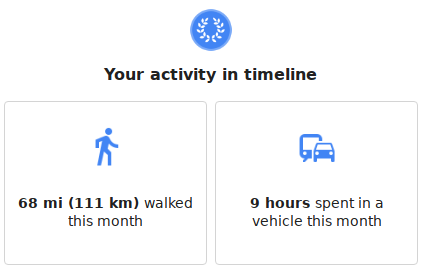
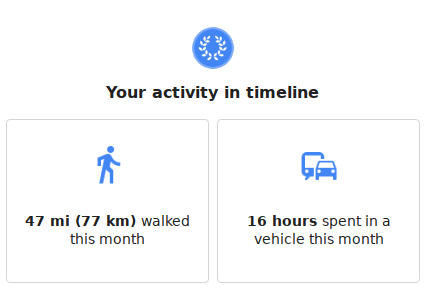
The post for July is done but it's still in Draft until monday

diff --git a/content/post/stats-jul-2017.md b/content/post/stats-jul-2017.md
@@ -2,6 +2,7 @@
 title = "Stats for Jul, 2017"
 date = "2017-08-05"
 tags = ["stats","personal","english"]
+draft = true
 +++
 
 Okay, here we go for the first full month working in my new job. :)
@@ -85,13 +86,31 @@ Editors are pretty much the same as last month's.
 + [Your ruby app end to end](https://pt.slideshare.net/CibeleFerreira8/tdc2017sp-trilha-ruby-sua-aplicacao-ruby-end-to-end) at [The Developers Conference](http://www.thedevelopersconference.com.br/tdc/2017/saopaulo/trilha-ruby)
 + **Deconstructing the web** as a Guest speaker at [ELO7 Tech-talks](http://carreira.elo7.com.br/engenharia/)
 
-And that was a huge step towards my goal:
+Six presentations in one month. Three of them were in the same day. This month
+is a personal record for me. 🎉
+
+It was also a huge step towards my goal:
 
 [![Burn down chart for my presentations](/images/stats/2017/jul/presentations.png "Burn down chart for my presentations")](/images/stats/2017/jul/presentations.png "")
 
 Hm... I kinda finished the yearly challenge in July. 😬
 
 Let's how far I can go! :D
+
+### Completed tasks
+
+I want to add the amount of tasks completed on my current task
+manager [Todoist](https://todoist.com)
+
+[![Amount of tasks completed this month](/images/stats/2017/jul/tasks-completed.png "Amount of tasks completed this month")](/images/stats/2017/jul/tasks-completed.png)
+
+**554 tasks** completed this month. :D
+
+I also included my streaks but I think I will have to improve my daily goals,
+they are too small for me.
+
+I have plans to create a better way to extract data from my Todoist account, but
+I will need some time to work on in.
 
 ### Podcasts
 
@@ -121,12 +140,14 @@ Here are the data from my time tracking software, [Toggl](https://toggl.com):
 [![Hours working using Toggl](/images/stats/2017/jul/toggl-time-working.png "Hours working using Toggl")](/images/stats/2017/jul/toggl-time-working.png "")
 
 The above chart is just for my freelance and full-time job. My full-time job is
-taking all my energy currently and there is not so much time spent as a
-freelancer this month.
+taking all my energy currently and there is not so much time spent working as a
+freelancer this month. The good part is that I'm working a lot less
+than [the previous months](/post/stats-may-2017/#working-hours) but I'm
+exhausted in the same way.
 
 There is another chart for my personal projects:
 
-[![Hours working on personal projects using Toggl](/images/stats/2017/jul/toggl-time-personal-projects.png "Hours working on personal projects using Toggl")](/images/stats/2017/jul/toggl-time-working.png "")
+[![Hours working on personal projects using Toggl](/images/stats/2017/jul/toggl-time-personal-projects.png "Hours working on personal projects using Toggl")](/images/stats/2017/jul/toggl-time-personal-projects.png "")
 
 It was really hard to work on personal projects this month. This 11 hours was my
 presentations. I did not consider the whole day speaking at TDC though. :)
@@ -148,13 +169,13 @@ I'm using my Mi band data to calculate my average steps:
 [![Activity data for this month by Mi-Fit app](/images/stats/2017/jul/activity.jpg "Activity data for this month by Mi-Fit app")](/images/stats/2017/jul/activity.jpg "")
 
 According to this data, I can conclude that I had a daily average of
-**10.6k** steps (318/30), a lot more than next month (it was **8.3k**) \o/.
+**8k** steps (249/31), it came back to my previous average.
 
 And these are my steps each day:
 
 [![Amount of steps for this month](/images/stats/2017/jul/physical-activity-steps.png "Amount of steps for this month")](/images/stats/2017/jul/physical-activity-steps.png "")
 
-My max distance was **11.7km**:
+My max distance was **8.3km**:
 
 [![Travelled distance this month](/images/stats/2017/jul/physical-activity-distance.png "Travelled distance this month")](/images/stats/2017/jul/physical-activity-distance.png "")
 
@@ -167,25 +188,28 @@ data for this month:
 
 [![Amount of sleep for this month](/images/stats/2017/jul/sleep.jpg "Amount of sleep for this month")](/images/stats/2017/jul/sleep.jpg "")
 
+A bit more average sleeping (**7h29m** for the last month) [and **a lot** more
+deep sleeping for this month \o/ (last month was **1h04**).
+
+I bought the Mi band 2, it may have some better monitoring. Let's see how it
+goes for the next month. :)
+
 There's a new feature comparing my stats to the user base:
 
 [![Stats about my sleep data](/images/stats/2017/jul/sleep_stats.jpg "Stats about my sleep data")](/images/stats/2017/jul/sleep_stats.jpg "")
 
-Less average sleeping and less deep sleeping for this month. It's not
-so much (around 10min avg for both), but I should keep an eye on it.
+I liked it. :)
 
 ### TV Shows
 
-According to [tvshowtime](https://www.tvshowtime.com) I watched 35 episodes this month.
+According to [tvshowtime](https://www.tvshowtime.com) I watched 24 episodes this month.
 
 [![TV shows watched this month according to tvshowtime](/images/stats/2017/jul/tvshows.jpg "TV shows watched this month according to tvshowtime")](/images/stats/2017/jul/tvshows.jpg "")
 
-It's a combination of **Better call saul**, two seasons of **Sense
-8**, and **Mr. Robot** (finally! :D).
+It's a combination of the two seasons of **Mr. Robot** (really recommended for
+programmers, BTW), **American Gods**, and **Game of Thrones**.
 
-It's a bit confusing to calculate how many days I spent on TV shows
-this month, but I now reached the mark of 1 month of time spent (or
-wasted, pick your side) watching TV. =/
+I spent **20 hours** watching TV this month.
 
 ### Words written and errors
 
@@ -200,16 +224,15 @@ Here are my stats for this month:
 + **1272** corrections made (**634** last month)
 + **10485** unique words (**10332** last month)
 
-More than 8k words written compared to last month but also almost 3x more corrections made :(.
-Unique words are less than next month but not so much.
+Since all my work conversations are in English, I have a lot more data here.
+Less unique words than last month (🤔) but almost 1/3 more words. The bad part
+is the corrections made, **2x more** than last month. =/
 
 ### Locations
 
-For some reason 1 country and 1 city is gone from my timeline, maybe I
-did some cleanup but didn't remember. In the other hand, the amount of
-places I visited increased by **55**! I'm not sure why that happened,
-since I did not traveled this month. It was probably some cleanup made
-by Google Maps folks.
+Again, for some reason 1 city is gone from my timeline, that's weird. In the
+other hand, the amount of places I visited increased by **14**. I'm not sure if
+I can trust on this data from Google Maps.
 
 [![General view of my locations data](/images/stats/2017/jul/location-general.png "General view of my locations data")](/images/stats/2017/jul/location-general.png "")
 
@@ -217,9 +240,16 @@ I also decided to add the amount of time spent in a vehicle this month:
 
 [![Location time and distance](/images/stats/2017/jul/location-time-distance.png "Location time and distance")](/images/stats/2017/jul/location-time-distance.png "")
 
-9 hours in the whole month! In contrast, I walked 111km, which is
-probably part of my daily dog walking / Gym routine. **Remote work
-FTW**!
+My presentations increased the time spent on transport, I think. I don't know if
+I can trust on the distance walking.
+
+But still, 16 hours in transport for the whole month! **Remote work FTW**!
+
+Here is a funny metric:
+
+[![Kms to the moon](/images/stats/2017/jul/location-moon.png "Kms to the moon")](/images/stats/2017/jul/location-moon.png "")
+
+The time I have to walk to "get to the moon", LOL.
 
 ### Expenses
 
@@ -227,15 +257,18 @@ My expenses for this month:
 
 [![Expenses by category this month](/images/stats/2017/jul/expenses.jpg "Expenses by category this month")](/images/stats/2017/jul/expenses.jpg "")
 
-This chart **represents all my income for this month**. As predicted in the last
-month, I did not receive anything because I was still waiting for the whole
-process to open a new company to be finished. It took almost two months to be
-completed but I think it's done and I can finally generate new invoices to
-receive my payment.
+This chart **represents all my income for this
+month**. [As predicted last month](/post/stats-jun-2017/), I did not receive
+anything because I was still waiting for the whole process to get my company
+ready to generate invoices. It took almost two months to complete but I think
+it's done and I can finally generate new invoices to receive my payment.
+
+Most part of my expenses goes to "Despesas do trabalho" (work expenses), since I
+had to pay a lot of taxes to get my own company ready.
 
 It was amazing to find that I still increased my total savings by **0.5%** (not
 so much compared to **5.2%** of the last month, but it's positive!) and reached
-**72.83%** of my goal. It happened thanks to my wife supporting our expenses. <3
+**72.83%** of my goal. It happened thanks to my wife supporting our expenses. ❤
 
 
 ### Time to write this blog post
@@ -243,19 +276,19 @@ so much compared to **5.2%** of the last month, but it's positive!) and reached
 Some people are asking me about how much time it take to collect all
 the data and write the blog post, so I decided to add this metric.
 
-**It took 4 hours and 03 minutes to write this post**
+**It took 3 hours to write this post**
 
-Almost the double comparing to last month. As I had to change a lot of
-things on my investment portfolio, it took some time to organize
-everything again.
+1 hour less than last month but I will still work to improve this time.
 
 
 ### Conclusion
 
-I feel great this month. :)
+My new job is taking a lot of my energies. There is a lot of work to do and new
+stuff to learn. I'm doing my best to make the software I love since 2007 become
+a great platform to developers build their stuff on top of it.
 
-The new job is amazing and I can focus on my deep working routine to
-actually do real stuff. I'm still getting used to the new workflow and
-software I have to support, but it's being an awesome experience.
+I was not expecting to be so tired at the end of the day, I had to put some
+personal projects aside for some months.
 
-Hope to have more good news next month.
+Aside of that, the company and my co-workers are great, I'm really enjoying the
+experience of building a great product.
